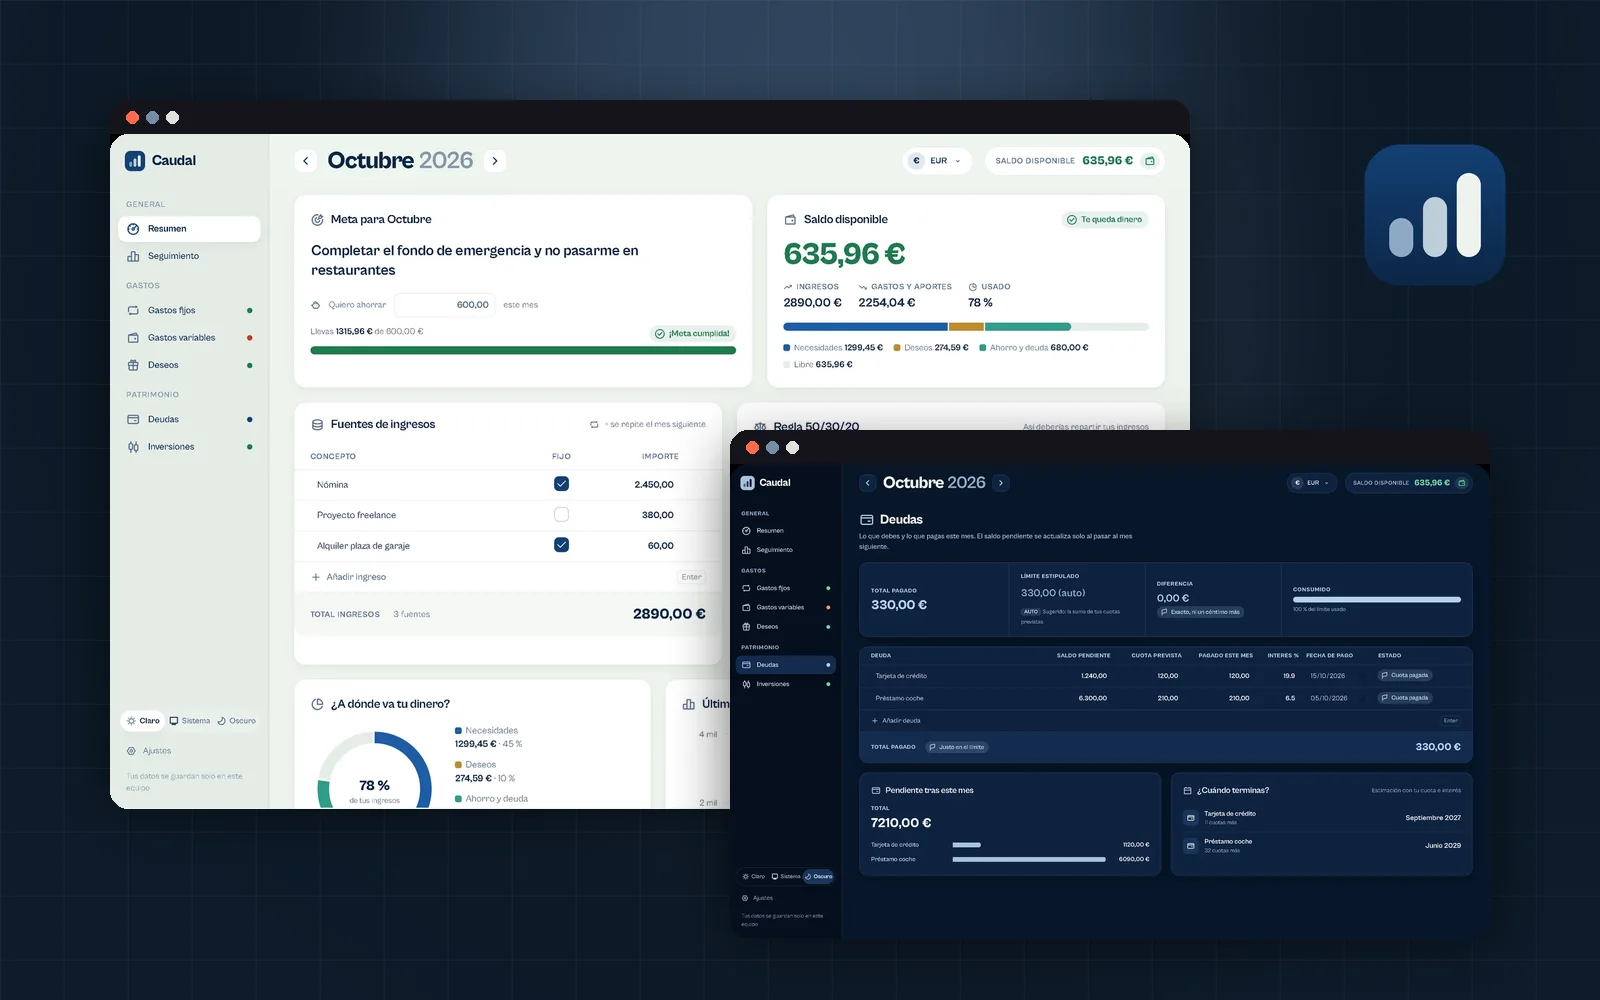
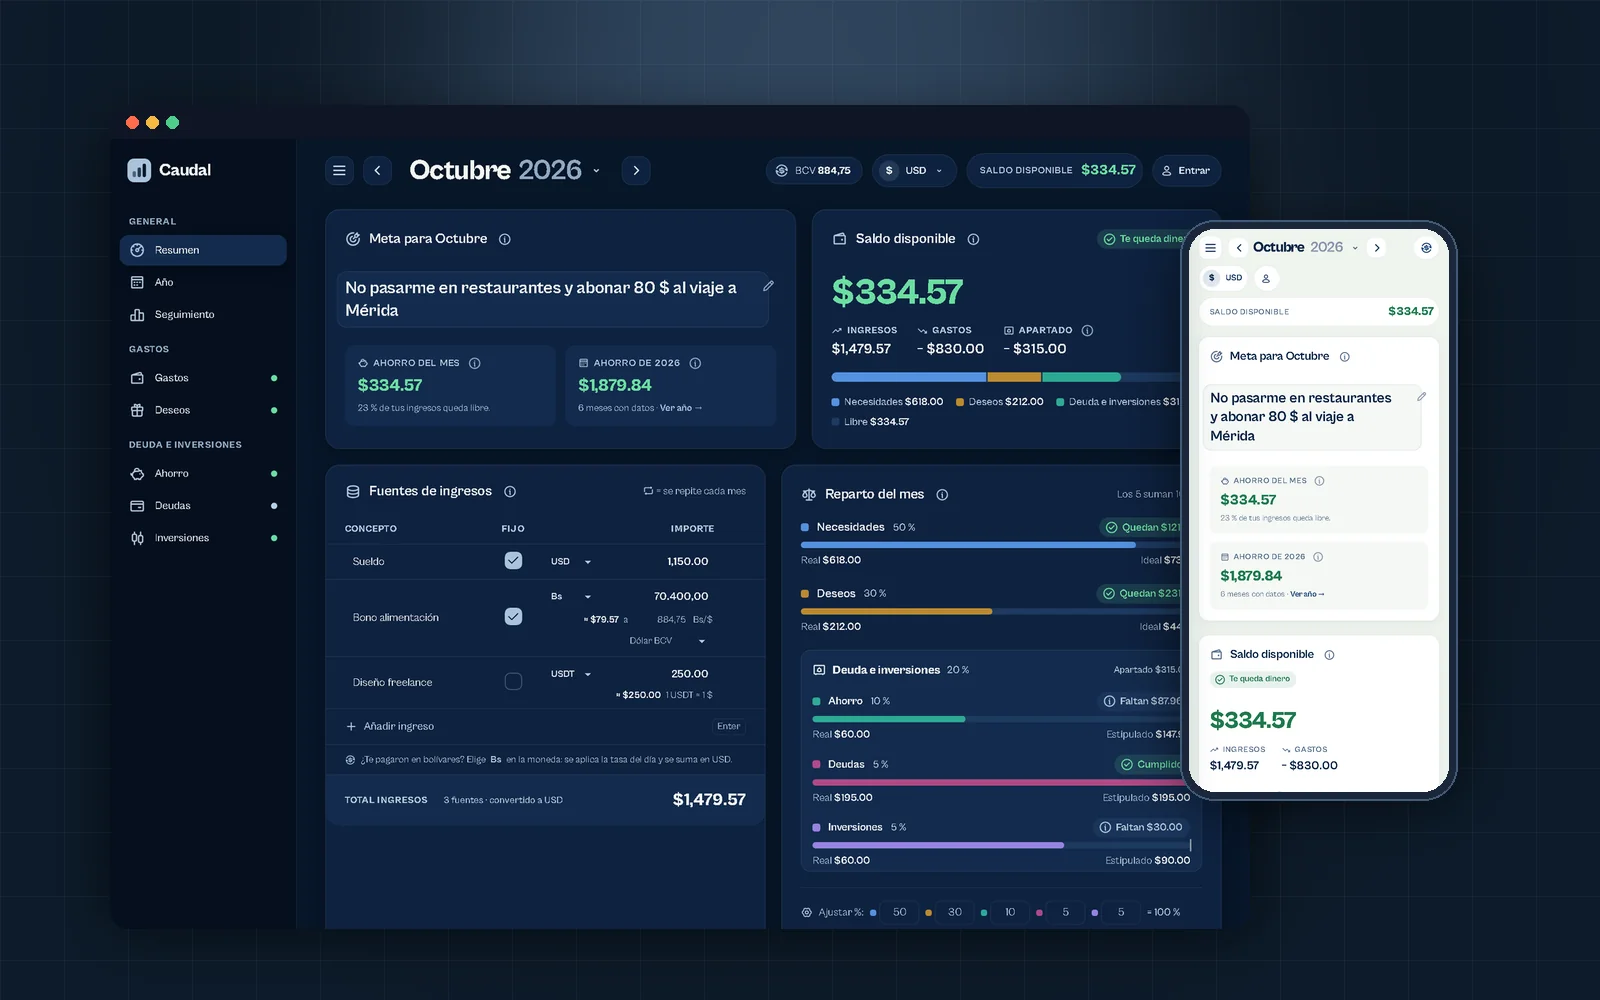
Actualización: Orus, P2P Desk, Tutorial Studio y Caudal v2.4 + OG por proyecto

diff --git a/CONTEXTO.md b/CONTEXTO.md
@@ -1,6 +1,6 @@
 # Portafolio · Alejandro Hurtado Martín · Contexto del proyecto
 
-> Última actualización: **30/10/2026**. Si trabajas en este proyecto en un chat nuevo, **lee este archivo antes de empezar**. Responde siempre en español.
+> Última actualización: **25/11/2026**. Si trabajas en este proyecto en un chat nuevo, **lee este archivo antes de empezar**. Responde siempre en español.
 
 ## 1. Qué es
 
@@ -54,6 +54,8 @@ Historial de sincronizaciones:
 - 08/10/2026 (ordenador nuevo, proyecto en `C:\Users\mrlej\OneDrive\Documents\Portafolio`): **Mixing Kit** (laboratorio de mixología 3D con Three.js + Vite, código en `C:\Users\mrlej\OneDrive\Documents\mixing-kit`, publicado aparte en Cloudflare Pages, proyecto `mixingkit` → https://mixingkit.pages.dev, con `npm run deploy` desde su carpeta). Capturas de la web publicada con `_fuente/capturar_mixingkit.mjs` (Edge con GPU para WebGL), WebP con `_fuente/procesar_mixingkit.py` (escritorio 1600 px, móvil a 780 px completos) y portada en `_fuente/portadas.py`. Destacado, con botón «Abrir Mixing Kit en vivo». Relacionado con Velvet & Spirit. Textos redactados por Claude a partir del código: confirmar con el usuario.
 
 - 09/10/2026: **Caudal** (app de escritorio de finanzas personales, código en `C:\Users\mrlej\OneDrive\Documents\caudal`, misma arquitectura que DiskPulse). Capturas con `_fuente/capturar_caudal.py` (Edge sin ventana a 1600x1090 → recorte 1600x1000; requiere `python app.py --no-open --data-dir .devdata` con datos de ejemplo; tema forzado con `?theme=` y vista con `#vista`). Incluye 3 páginas del manual PDF (`caudal/docs`). Portada en `_fuente/portadas.py`. Destacado. Textos redactados por Claude a partir del código: confirmar con el usuario.
+
+- 25/11/2026: Actualización mayor con proyectos de `E:\Claude\Proyectos\`: se añadieron **Orus · Academia de tenis** (`https://orus-tennis.pages.dev`), **P2P Desk** (capturas en modo simulación `paper` + `P2P_DEMO=1`) y **Tutorial Studio** (app Electron de grabación con auto-zoom), y se actualizó **Caudal** a su versión 2.4 multiplataforma (`https://caudal-1id.pages.dev`, Windows + Web + PWA + multimoneda BCV/USDT + sincronización Supabase). Scripts: `_fuente/capturar_nuevos.mjs` y `_fuente/procesar_nuevos.py`. También se optimizó `scripts/build.mjs` para incluir `og:image` individual por caso de estudio y actualizar el carril de destacados y el muro de portada.
 
 Herramientas usadas por los scripts: Python 3 con Pillow, PyMuPDF, numpy y scipy; Edge sin ventana para capturas (`_fuente/capturar.py`).
 
